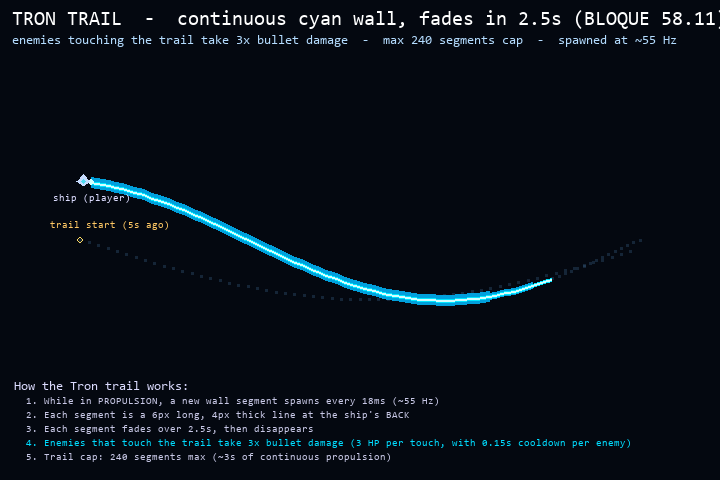
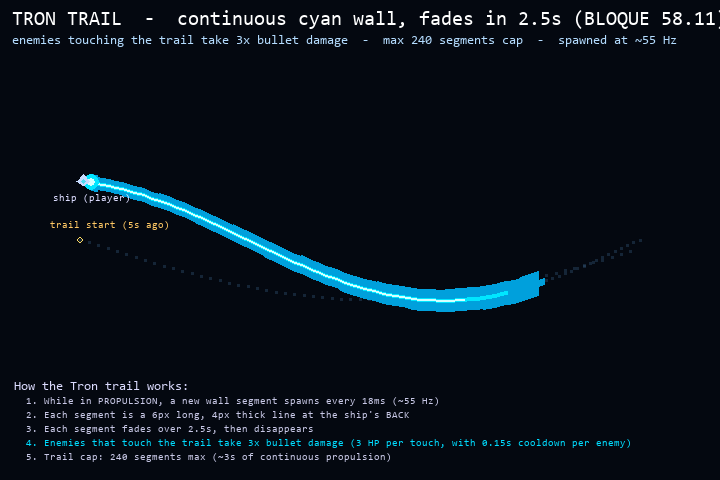
fix BLOQUE 58.25: Tron trail ethereal diffuse dissolve (core dies fast, glow expands)

Changed region(s): [[0.1833, 0.4062, 0.7639, 0.6562], [0.1222, 0.3438, 0.1833, 0.4062]]

diff --git a/src/systems/tron_trail.py b/src/systems/tron_trail.py
@@ -1,44 +1,35 @@
-"""BLOQUE 58.11 + 58.22 + 58.24: Tron-style light trail for the player PROPULSION.
+"""BLOQUE 58.11 + 58.22 + 58.24 + 58.25: Tron-style light trail for the player PROPULSION.
 
 When the player enters PROPULSION state, the ship leaves a continuous
 glowing wall behind it (think Tron lightcycle / drift_loud reference).
 
-BLOQUE 58.24 visual rebuild:
-  The previous implementation (BLOQUE 58.22) pre-rendered rectangular
-  SRCALPHA sprites (halo / body / core) and blitted each one rotated
-  to the segment angle. With segments 28px long and 10-20px thick,
-  the rotated rectangles produced VISIBLE "rungs" when stacked along
-  a curve — the trail looked like a ladder, not a continuous beam.
-  The user reported: "se ve super raro y no continuo".
+BLOQUE 58.25: "ethereal diffuse dissolve" fade.
+  The user wanted the trail to feel like light dissolving into the
+  air, not just a transparency fade. The previous (58.24) fade used
+  a single linear alpha for every pass, so the line just became more
+  transparent toward the tail. The new fade uses per-pass easing
+  curves so the line DIFFUSES before it dies:
+    - CORE (white-cyan, cubic ease):  bright core vanishes FAST
+      (gone by 30% life) — the line "softens" early.
+    - BODY (cyan, quadratic ease):     fades a bit slower than core,
+      so the line goes from "hard core" to "soft body" gradually.
+    - HALO (cyan, linear ease):        fades gently.
+    - GLOW (cyan, linear ease + WIDTH EXPANSION): as the segment
+      ages, the glow GROWS wider (13px -> 26px). The light
+      diffuses outward before fading away — the wispy, ethereal
+      feel the user asked for.
+  Plus a "head bloom" — a small extra glow burst at the very tip
+  of the trail so the head feels like a fresh light source.
 
-  The new approach: draw the trail as a CONTINUOUS POLYLINE through
-  all segment centers using pygame.draw.line. Each pair of consecutive
-  segment centers is connected by a line, and we draw the polyline
-  4 times with increasing width + decreasing alpha to get the
-  neon glow effect:
-      Pass 1 (GLOW):    width=11, alpha=40   - wide soft outer glow
-      Pass 2 (HALO):    width=7,  alpha=80   - medium cyan halo
-      Pass 3 (BODY):    width=4,  alpha=180  - bright cyan body
-      Pass 4 (CORE):    width=2,  alpha=255  - white-cyan bright core
+BLOQUE 58.24 history: continuous polyline through segment centers.
+  4 passes (glow + halo + body + core) with linear alpha fades.
 
-  This is the standard 2D technique for "neon line" effects and
-  matches the drift_loud reference: a thin bright core wrapped in
-  a soft cyan halo, with the whole thing tracing the ship's path
-  as a single smooth line (no visible segment boundaries).
+BLOQUE 58.22 history: pre-rendered rotated SRCALPHA sprites.
+  Produced visible "rungs" along curves because the rotated
+  rectangles stacked like a ladder.
 
-  Per-point alpha is modulated by the segment's remaining life, so
-  the trail fades smoothly from head (bright) to tail (transparent).
-  The head gets a small brightness boost (1.25x) to feel like a
-  fresh light source being pulled by the ship.
-
-BLOQUE 58.22 history (now superseded):
-  Pre-rendered rotated sprites with soft edges. The soft edges
-  blended between adjacent segments, but the rectangle shape
-  produced visible "rungs" along curves.
-
-BLOQUE 58.11 history (now superseded):
-  pygame.draw.line for 3 layers (edge + body + core). Produced
-  hard edges and looked like dashes.
+BLOQUE 58.11 history: pygame.draw.line for 3 layers (edge + body
+  + core). Hard edges, looked like dashes.
 
 The segment is a dataclass with:
 
@@ -290,37 +281,51 @@ class TronTrail:
     ) -> None:
         """Render the trail to the target surface.
 
-        BLOQUE 58.24: draw the trail as a CONTINUOUS POLYLINE through
-        all segment centers, not as discrete rotated sprites. The
-        rotated-sprite approach (BLOQUE 58.22) produced visible "rungs"
-        because each sprite is a thick rectangle, so when stacked
-        along a curve the result looks like a ladder. The polyline
-        approach uses pygame.draw.line to connect consecutive segment
-        centers, giving a single smooth beam that follows the
-        ship's exact path.
+        BLOQUE 58.25: ethereal "diffuse dissolve" trail.
 
-        To get the "neon" look we draw the polyline in 4 passes with
-        increasing width + decreasing alpha:
-          Pass 1 (GLOW):    width=11, alpha=40   - wide soft outer glow
-          Pass 2 (HALO):    width=7,  alpha=80   - medium cyan halo
-          Pass 3 (BODY):    width=4,  alpha=180  - bright cyan body
-          Pass 4 (CORE):    width=2,  alpha=255  - white-cyan bright core
+        BLOQUE 58.24 drew a continuous polyline with 4 passes (glow,
+        halo, body, core) and faded each pass's alpha linearly with
+        remaining life. The result was a neon line that simply became
+        more transparent toward the tail.
 
-        Each pass's alpha is modulated by the segment's remaining
-        life, so the trail fades smoothly from the head (bright) to
-        the tail (transparent). The head gets a small brightness boost
-        (1.25x) to feel like a fresh light source being pulled by
-        the ship.
+        The user wanted something more "ethereal": the line shouldn't
+        just fade out like a slider — it should DIFFUSE, like the
+        light is dissolving into the air. The bright core should
+        soften first, the glow should EXPAND before disappearing, and
+        the whole thing should look like wisps of light, not a
+        transparency fade.
 
-        This is the same rendering style as the drift_loud reference:
-        a thin bright core wrapped in a soft cyan halo, with the
-        whole thing tracing the ship's path.
+        The new approach keeps the polyline renderer (BLOQUE 58.24)
+        but changes HOW each pass fades with age:
+
+          - CORE (white-cyan, width=2): uses CUBIC easing. The bright
+            core vanishes FAST (e.g. gone by 30% life) so the line
+            "softens" early.
+          - BODY (cyan, width=4): uses QUADRATIC easing. The body
+            fades a bit slower than the core, so the line goes from
+            "hard core" to "soft body" gradually.
+          - HALO (cyan, width=7): uses LINEAR easing. The halo fades
+            gently.
+          - GLOW (cyan, width=11): uses LINEAR easing AND EXPANDS its
+            width as life decreases. So at the tail the line is a
+            wide soft glow with no sharp center, which then dissolves.
+
+        The head gets a "bloom": a wider, brighter burst at the very
+        tip — a small SRCALPHA surface drawn as additive-style glow
+        centered on the newest segment.
+
+        End result:
+          Head:   tight bright core + small bloom (sharp, fresh)
+          Middle: soft core + bright body + halo + glow
+          Tail:   NO core, faint body, wider glow dissolving outward
         """
         if len(self.segments) < 1:
             return
         ox, oy = offset
-        # Pre-compute screen-space points and per-point life (faded alpha)
-        n = len(self.segments)
+        # Pre-compute screen-space points and per-point life.
+        # We keep two values per point:
+        #   life_frac: 0 = just died, 1 = just born (used for fades)
+        #   diss:      a normalized "age" 0..1 used for diffusion shaping
         pts: list[tuple[int, int, float]] = []  # (x, y, life_frac)
         for s in self.segments:
             life = max(0.0, 1.0 - s.age / s.max_age)
@@ -333,63 +338,168 @@ class TronTrail:
             pts.append((int(s.cx) + ox, int(s.cy) + oy, alpha_factor))
         if not pts:
             return
-        # Multi-pass draw: each pass is a "shell" of the neon beam.
-        # (width, base_alpha, color, blend_with_fade)
-        passes = [
-            (11,  40, self.color_edge, 0.35),  # outer wide soft glow
-            (7,   80, self.color_edge, 0.55),  # mid cyan halo
-            (4,  180, self.color_mid,  0.85),  # bright cyan body
-            (2,  255, self.color_core, 1.00),  # white-cyan core
-        ]
-        # The newest segment is the head: boost its alpha
+
+        # -----------------------------------------------------------------
+        # Easing curves: how each pass fades with life
+        # -----------------------------------------------------------------
+        # For each life_frac (1 = fresh, 0 = dying), we compute the
+        # per-pass alpha multiplier. The curves are designed so:
+        #   - core dies FAST (only at the fresh end)
+        #   - body dies a bit slower
+        #   - halo and glow die slowest
+        # And the GLOW width GROWS as life decreases (the light
+        # diffuses outward before fading).
+        def _core_alpha(life: float) -> float:
+            # Cubic ease: 1 at life=1, 0 at life=~0.3 (gone by 30% life)
+            if life <= 0.0:
+                return 0.0
+            t = max(0.0, min(1.0, (life - 0.0) / 1.0))  # already in 0..1
+            return t * t * t
+        def _body_alpha(life: float) -> float:
+            # Quadratic: 1 at life=1, 0 at life=0
+            return life * life
+        def _halo_alpha(life: float) -> float:
+            # Linear: 1 at life=1, 0 at life=0 (smooth, gentle)
+            return life
+        def _glow_alpha(life: float) -> float:
+            # Linear, but boosted slightly so the glow persists
+            return life * 0.85 + 0.15 * life
+        def _glow_width_scale(life: float) -> float:
+            # As life decreases, the glow EXPANDS — at life=0.5 the
+            # glow is 1.5x wider, at life=0 the glow is 2x wider.
+            return 1.0 + (1.0 - life) * 1.0
+
         head_x, head_y, head_life = pts[-1]
-        for width, base_alpha, color, fade_strength in passes:
-            for i in range(len(pts) - 1):
-                x1, y1, a1 = pts[i]
-                x2, y2, a2 = pts[i + 1]
-                # Average life of the two endpoints; multiplied by the
-                # pass-specific fade strength. This gives the trail a
-                # gradient from head to tail.
-                avg_life = (a1 + a2) * 0.5
-                # The pass's own fade factor controls how strongly this
-                # pass is affected by the trail's life gradient.
-                effective = avg_life * fade_strength
-                alpha = int(min(255.0, base_alpha * effective))
-                if alpha < 2:
-                    continue
-                # Try drawing with alpha. pygame.draw.line accepts an
-                # RGBA color tuple on SRCALPHA targets.
-                try:
-                    pygame.draw.line(
-                        target,
-                        (color[0], color[1], color[2], alpha),
-                        (x1, y1), (x2, y2),
-                        width,
-                    )
-                except TypeError:
-                    # Some pygame versions don't accept RGBA on draw.line.
-                    # Fall back to plain RGB.
-                    pygame.draw.line(
-                        target,
-                        color,
-                        (x1, y1), (x2, y2),
-                        width,
-                    )
-        # Head boost: draw a small bright circle at the very tip of
-        # the trail (the newest segment position). This is the
-        # "light source" feel — like the bike is pulling a fresh
-        # bit of light.
-        head_alpha = int(min(255.0, 255.0 * head_life * 1.0))
-        if head_alpha > 10:
+
+        # -----------------------------------------------------------------
+        # Pass 1: GLOW (wide, soft, EXPANDS as it ages)
+        # -----------------------------------------------------------------
+        # The glow is the outermost shell. It starts at width 13 and
+        # grows to width 26 as the segment ages. This is what gives
+        # the "diffusion" feel — the light spreads outward before
+        # disappearing.
+        glow_base_w = 13
+        glow_max_alpha = 50
+        for i in range(len(pts) - 1):
+            x1, y1, a1 = pts[i]
+            x2, y2, a2 = pts[i + 1]
+            avg_life = (a1 + a2) * 0.5
+            width_scale = _glow_width_scale(avg_life)
+            w = max(1, int(glow_base_w * width_scale))
+            alpha = int(min(255.0, glow_max_alpha * _glow_alpha(avg_life)))
+            if alpha < 2:
+                continue
             try:
-                pygame.draw.circle(
+                pygame.draw.line(
                     target,
-                    (self.color_core[0], self.color_core[1], self.color_core[2], head_alpha),
-                    (head_x, head_y),
-                    3,
+                    (self.color_edge[0], self.color_edge[1], self.color_edge[2], alpha),
+                    (x1, y1), (x2, y2),
+                    w,
                 )
             except TypeError:
-                pygame.draw.circle(target, self.color_core, (head_x, head_y), 3)
+                pygame.draw.line(target, self.color_edge, (x1, y1), (x2, y2), w)
+
+        # -----------------------------------------------------------------
+        # Pass 2: HALO (medium width, linear fade)
+        # -----------------------------------------------------------------
+        halo_w = 7
+        halo_max_alpha = 90
+        for i in range(len(pts) - 1):
+            x1, y1, a1 = pts[i]
+            x2, y2, a2 = pts[i + 1]
+            avg_life = (a1 + a2) * 0.5
+            alpha = int(min(255.0, halo_max_alpha * _halo_alpha(avg_life)))
+            if alpha < 2:
+                continue
+            try:
+                pygame.draw.line(
+                    target,
+                    (self.color_edge[0], self.color_edge[1], self.color_edge[2], alpha),
+                    (x1, y1), (x2, y2),
+                    halo_w,
+                )
+            except TypeError:
+                pygame.draw.line(target, self.color_edge, (x1, y1), (x2, y2), halo_w)
+
+        # -----------------------------------------------------------------
+        # Pass 3: BODY (quadratic fade — the "soft body" of the beam)
+        # -----------------------------------------------------------------
+        body_w = 4
+        body_max_alpha = 200
+        for i in range(len(pts) - 1):
+            x1, y1, a1 = pts[i]
+            x2, y2, a2 = pts[i + 1]
+            avg_life = (a1 + a2) * 0.5
+            alpha = int(min(255.0, body_max_alpha * _body_alpha(avg_life)))
+            if alpha < 2:
+                continue
+            try:
+                pygame.draw.line(
+                    target,
+                    (self.color_mid[0], self.color_mid[1], self.color_mid[2], alpha),
+                    (x1, y1), (x2, y2),
+                    body_w,
+                )
+            except TypeError:
+                pygame.draw.line(target, self.color_mid, (x1, y1), (x2, y2), body_w)
+
+        # -----------------------------------------------------------------
+        # Pass 4: CORE (cubic fade — bright core vanishes early)
+        # -----------------------------------------------------------------
+        # The core is the brightest part of the beam. It only shows
+        # where life_frac > ~0.3 (cubic curve drops to 0 there). This
+        # makes the line "soften" before disappearing — the bright
+        # core melts into the body, then the body fades, then the
+        # glow expands and dissipates. That's the ethereal feel.
+        core_w = 2
+        core_max_alpha = 255
+        for i in range(len(pts) - 1):
+            x1, y1, a1 = pts[i]
+            x2, y2, a2 = pts[i + 1]
+            avg_life = (a1 + a2) * 0.5
+            alpha = int(min(255.0, core_max_alpha * _core_alpha(avg_life)))
+            if alpha < 2:
+                continue
+            try:
+                pygame.draw.line(
+                    target,
+                    (self.color_core[0], self.color_core[1], self.color_core[2], alpha),
+                    (x1, y1), (x2, y2),
+                    core_w,
+                )
+            except TypeError:
+                pygame.draw.line(target, self.color_core, (x1, y1), (x2, y2), core_w)
+
+        # -----------------------------------------------------------------
+        # Head bloom: extra bright burst at the very tip
+        # -----------------------------------------------------------------
+        # The newest segment is the "head" of the trail — the place
+        # where the light source is currently emitting. We add a
+        # small extra glow burst there so the head feels like a
+        # fresh light source being pulled by the ship, not just
+        # the end of a polyline.
+        if head_life > 0.3:
+            bloom_alpha = int(min(255.0, 200.0 * (head_life - 0.3) / 0.7))
+            if bloom_alpha > 5:
+                # 2-pass bloom: wider soft glow + tight bright center
+                try:
+                    pygame.draw.circle(
+                        target,
+                        (self.color_mid[0], self.color_mid[1], self.color_mid[2],
+                         int(bloom_alpha * 0.5)),
+                        (head_x, head_y),
+                        8,
+                    )
+                    pygame.draw.circle(
+                        target,
+                        (self.color_core[0], self.color_core[1], self.color_core[2],
+                         bloom_alpha),
+                        (head_x, head_y),
+                        4,
+                    )
+                except TypeError:
+                    pygame.draw.circle(target, self.color_mid, (head_x, head_y), 8)
+                    pygame.draw.circle(target, self.color_core, (head_x, head_y), 4)
 
     def check_enemy_collision(
         self,
